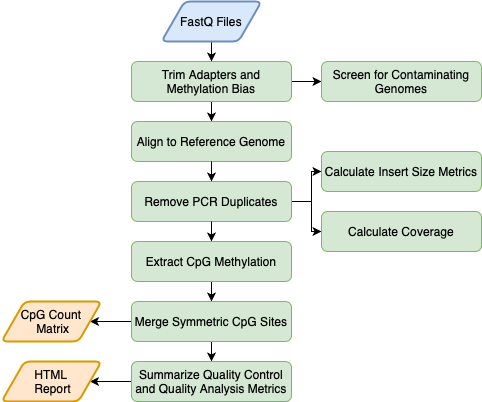
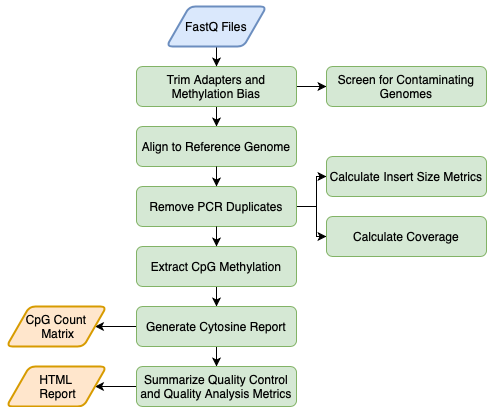
Renamed mergeCpGs to cytostineReport

Changed region(s): [[0.0, 0.0, 1.0, 1.0]]

diff --git a/README.md b/README.md
@@ -17,9 +17,10 @@ CpG_Me is an optimized and comprehensive WGBS pipeline for a SLURM job scheduler
 6. [Paired End (PE) Sequencing](https://github.com/ben-laufer/CpG_Me#paired-end-pe-sequencing)
 7. [Single End (SE) Sequencing](https://github.com/ben-laufer/CpG_Me#single-end-se-sequencing)
 8. [QC Report](https://github.com/ben-laufer/CpG_Me#qc-report)
-9. [Citation](https://github.com/ben-laufer/CpG_Me#citation)
-10. [Publications](https://github.com/ben-laufer/CpG_Me#publications)
-11. [Acknowledgements](https://github.com/ben-laufer/CpG_Me#acknowledgements)
+9. [DMR Calling](https://github.com/ben-laufer/CpG_Me#dmr-calling)
+10. [Citation](https://github.com/ben-laufer/CpG_Me#citation)
+11. [Publications](https://github.com/ben-laufer/CpG_Me#publications)
+12. [Acknowledgements](https://github.com/ben-laufer/CpG_Me#acknowledgements)
 
 ## Overview
 
@@ -96,7 +97,7 @@ The overall folder structure should appear as:
 
 ## Chastity Filtering
 
-This workflow assumes your data is Illumina quality/chastity filtered, which service providers these days will do by default, so this step is a vestige for older HiSeq data, and is something you probably don't need to worry about for new datasets.
+This workflow assumes your data is Illumina quality/chastity filtered, which service providers these days will do by default. So, this step is a vestige for very old HiSeq data, and is something you probably don't need to worry about for new datasets.
 
 You can check by using the following command, where file.fastq.gz represents your file:
 
@@ -263,6 +264,9 @@ To generate the QC report for single end sequencing data, the command is:
 `sbatch /share/lasallelab/programs/CpG_Me/Single-end/CpG_Me_SE_QC.sh` 
 
 An [example report](Examples/multiqc_report.html) for single end sequencing is available in the `Examples` folder. There is currently a minor glitch in the paired end reports, where the temporary files for the different reads create empty columns. This can be fixed by clicking on the configure columns button above the general statistics table and re-selecting one of the visibile columns. Also, these reports can be customized by modifying the multiqc_config.yaml files for the [paired end](Paired-end/multiqc_config_PE.yaml) and [single end](Single-end/multiqc_config_SE.yaml) pipelines. 
+
+## DMR calling
+Statistical testing for differentially methylated regions (DMRs) can be achieved by [DMRichR](https://github.com/ben-laufer/DMRichR), which utilizes the `cytosine_reports` folder created by CpG_Me. 
 
 ## Citation
 
